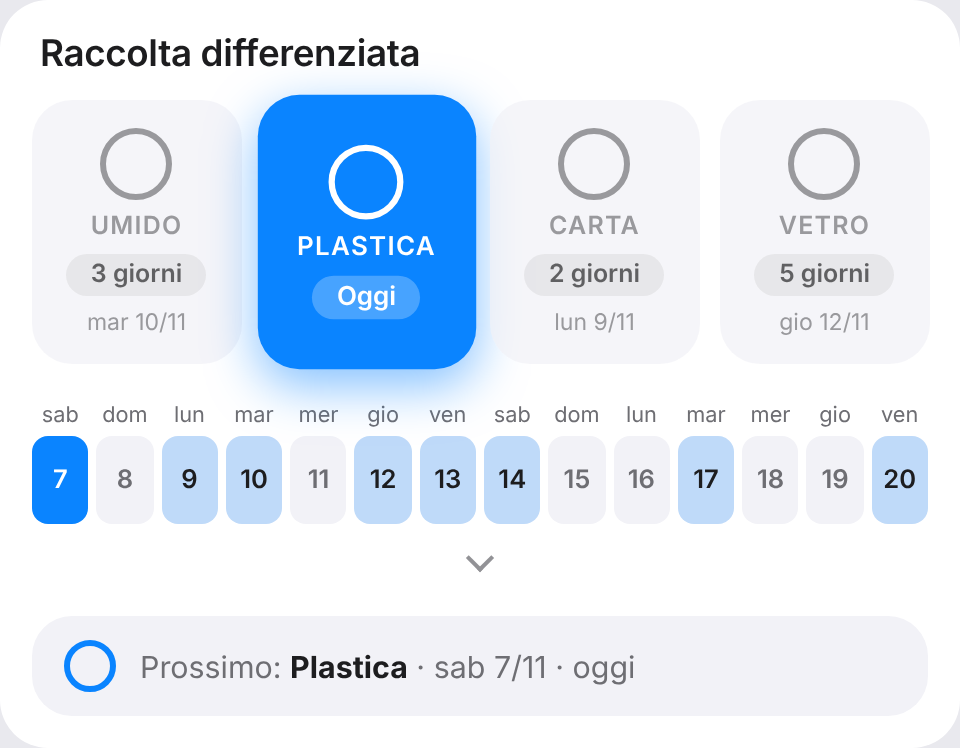
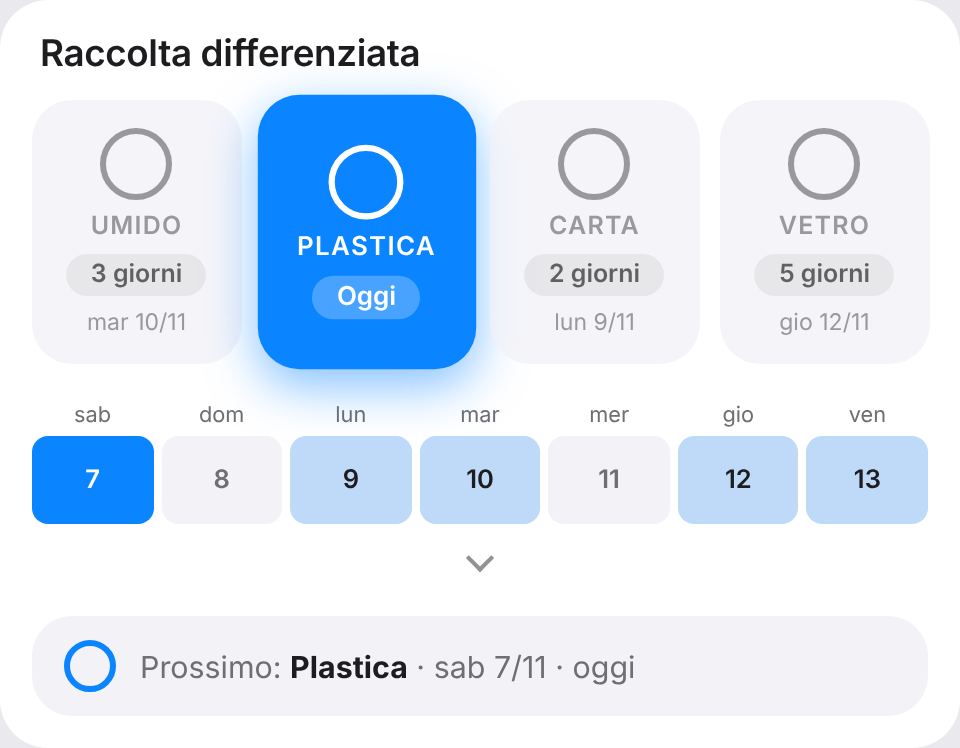
Default days = 7, impostabile a 7 o 14
Claude-Session: https://claude.ai/code/session_01BPWojQZg7AGnjhhBiETp5T

diff --git a/custom_components/garbage_view/frontend/garbage-view-card.js b/custom_components/garbage_view/frontend/garbage-view-card.js
@@ -469,7 +469,7 @@ class GarbageViewCard extends HTMLElement {
     const style = config.style === "homekit" ? "homekit" : "apple";
     this._config = {
       title: typeof config.title === "string" ? config.title.slice(0, 80) : "",
-      days: Number(config.days) === 7 ? 7 : 14,
+      days: Number(config.days) === 14 ? 14 : 7, // default 7 (dalla 0.2.1; prima 14)
       show_summary: config.show_summary !== false,
       // `view: calendar` (v0.2.0) equivale a start_expanded: true.
       start_expanded: config.start_expanded === true || (config.start_expanded === undefined && config.view === "calendar"),
@@ -518,7 +518,7 @@ class GarbageViewCard extends HTMLElement {
 
   static getStubConfig(hass) {
     const entity = hass && Object.keys(hass.states).find((e) => e.startsWith("sensor.garbage_view"));
-    return { entity: entity || "sensor.garbage_view_schedule", style: "apple", days: 14, show_summary: true };
+    return { entity: entity || "sensor.garbage_view_schedule", style: "apple", days: 7, show_summary: true };
   }
 
   // Imposta il periodo del calendario: "week" = questa settimana, "next_week" = la prossima, "month" = il mese.
@@ -875,7 +875,7 @@ class GarbageViewCard extends HTMLElement {
   }
 
   _buildStrip(daysIn, byId, t) {
-    // Il backend manda `horizon_days` giorni a partire da oggi; ne mostriamo 7 o 14.
+    // Il backend manda `horizon_days` giorni a partire da oggi; ne mostriamo 7 (default) o 14.
     const days = daysIn.filter((d) => d && parseDate(d.date)).slice(0, this._config.days);
     if (!days.some((d) => d.date === this._selected)) this._selected = null;
 
@@ -1093,7 +1093,7 @@ class GarbageViewCardEditor extends HTMLElement {
     this._styleSel = this._select([["apple", t.apple], ["homekit", t.homekit]]);
     this._field(t.style, this._styleSel);
 
-    this._days = this._select([["14", t.days_14], ["7", t.days_7]]);
+    this._days = this._select([["7", t.days_7], ["14", t.days_14]]);
     this._field(t.days, this._days);
 
     this._showSummary = el("input");
@@ -1174,7 +1174,7 @@ class GarbageViewCardEditor extends HTMLElement {
     if (active !== this._entity) this._entity.value = c.entity || "";
     if (active !== this._title) this._title.value = c.title || "";
     this._styleSel.value = c.style === "homekit" ? "homekit" : "apple";
-    this._days.value = Number(c.days) === 7 ? "7" : "14";
+    this._days.value = Number(c.days) === 14 ? "14" : "7";
     this._startExpanded.checked = c.start_expanded === true || (c.start_expanded === undefined && c.view === "calendar");
     this._mode.value = CAL_MODES.includes(c.calendar_mode) ? c.calendar_mode : "week";
     this._showToggle.checked = c.show_view_toggle !== false;
@@ -1203,7 +1203,7 @@ class GarbageViewCardEditor extends HTMLElement {
     set("entity", this._entity.value.trim(), true);
     set("title", this._title.value, this._title.value.trim() !== "");
     set("style", this._styleSel.value, true);
-    set("days", 7, this._days.value === "7"); // 14 è il default
+    set("days", 14, this._days.value === "14"); // 7 è il default
     delete config.view; // opzione 0.2.0, sostituita da start_expanded
     set("start_expanded", true, this._startExpanded.checked); // false è il default
     set("calendar_mode", this._mode.value, this._mode.value !== "week"); // week è il default

diff --git a/README.md b/README.md
@@ -36,7 +36,7 @@ type: custom:garbage-view-card
 entity: sensor.garbage_view_schedule   # obbligatorio
 title: Raccolta differenziata          # opzionale
 style: apple                           # apple | homekit
-days: 14                               # 7 | 14
+days: 7                                # 7 (default, settimana corrente) | 14
 start_expanded: false                  # true = calendario già aperto (sostituisce `view: calendar`)
 calendar_mode: week                    # week | next_week | month (periodo iniziale)
 show_view_toggle: true                 # piccolo chevron per espandere il calendario
@@ -134,7 +134,7 @@ type: custom:garbage-view-card
 entity: sensor.garbage_view_schedule   # required
 title: Recycling                       # optional
 style: apple                           # apple | homekit
-days: 14                               # 7 | 14
+days: 7                                # 7 (default, current week) | 14
 start_expanded: false                  # true = calendar already open (replaces `view: calendar`)
 calendar_mode: week                    # week | next_week | month (initial period)
 show_view_toggle: true                 # small chevron to expand the calendar

diff --git a/CHANGELOG.md b/CHANGELOG.md
@@ -7,6 +7,7 @@ Formato basato su [Keep a Changelog](https://keepachangelog.com/it/1.1.0/). / Fo
 ### Cambiato / Changed
 - **Il calendario si espande dalla card compatta**, sul posto: niente più vista separata. Sotto la striscia dei giorni c'è solo un piccolo chevron discreto (`aria-label`, `aria-expanded`, tastiera); la card compatta resta com'era: la striscia si chiude e il calendario si apre con un'animazione di altezza; ricliccando si torna alla vista compatta. Tessere, titolo e barra «Prossimo» restano sempre visibili. Con `prefers-reduced-motion` il passaggio è istantaneo. Il calendario viene costruito solo alla prima apertura.
 - Nuova opzione `start_expanded` (calendario già aperto). La vecchia `view: calendar` continua a funzionare come `start_expanded: true`; l'editor visuale ora scrive `start_expanded`. `show_view_toggle: false` nasconde il pulsante.
+- **Default di `days` ora 7** (la settimana corrente; prima 14), sempre impostabile a 7 o 14 anche dall'editor. Chi aveva `days` esplicito nella config non cambia; chi non lo aveva vedrà 7 giorni: per riavere i 14 basta `days: 14`.
 - Test vitest/Playwright e screenshot aggiornati.
 
 ## [0.2.0] - 2026-11-07
